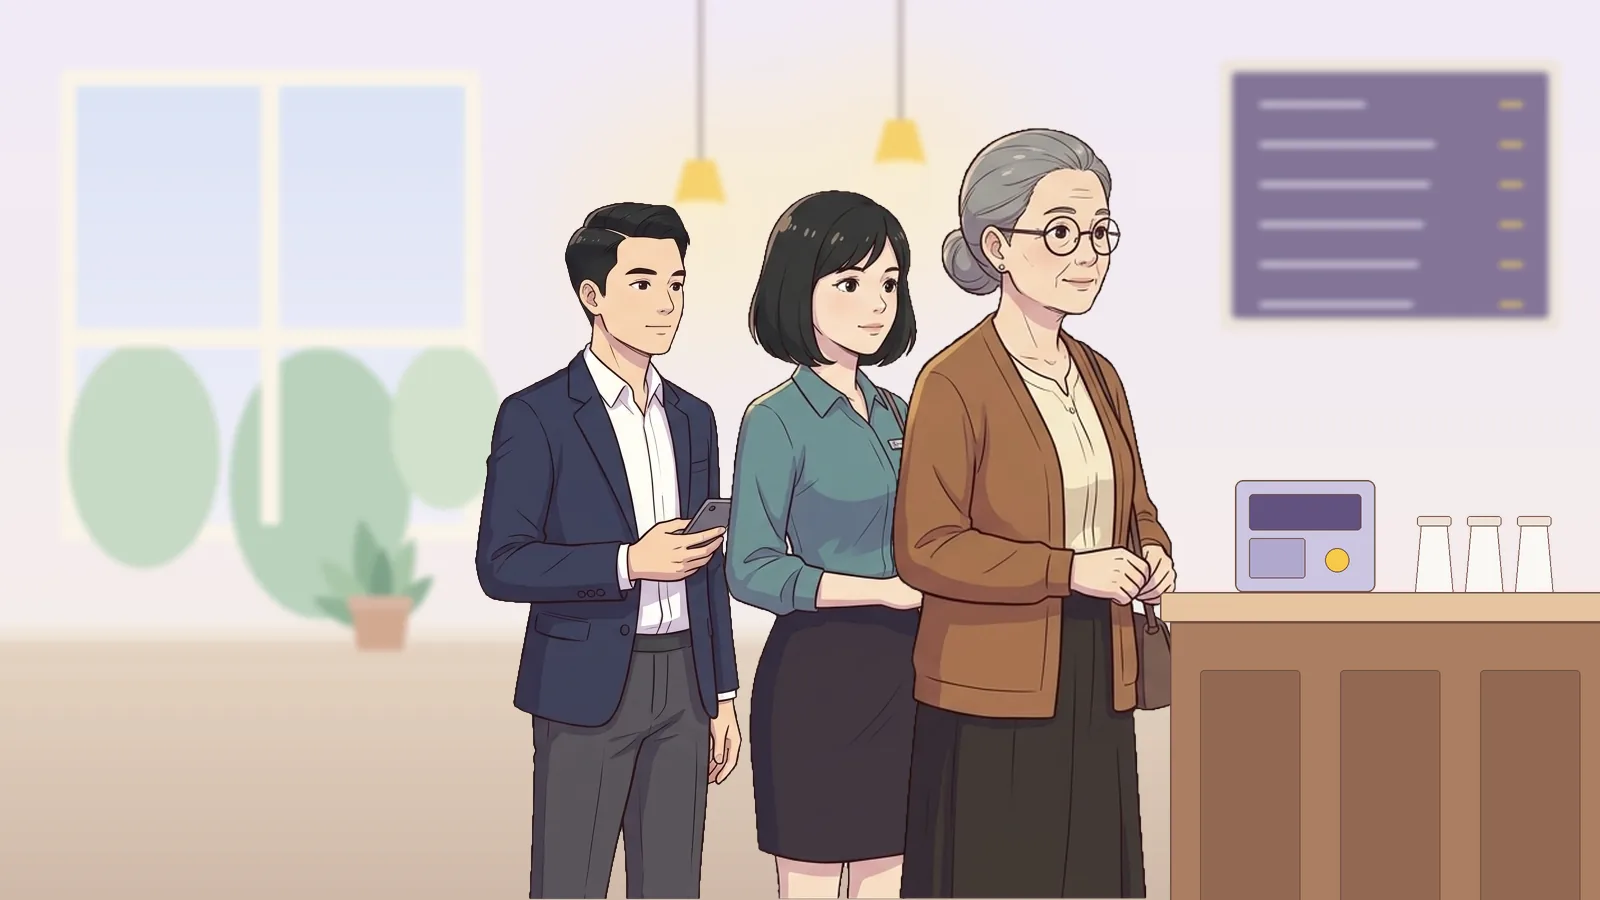
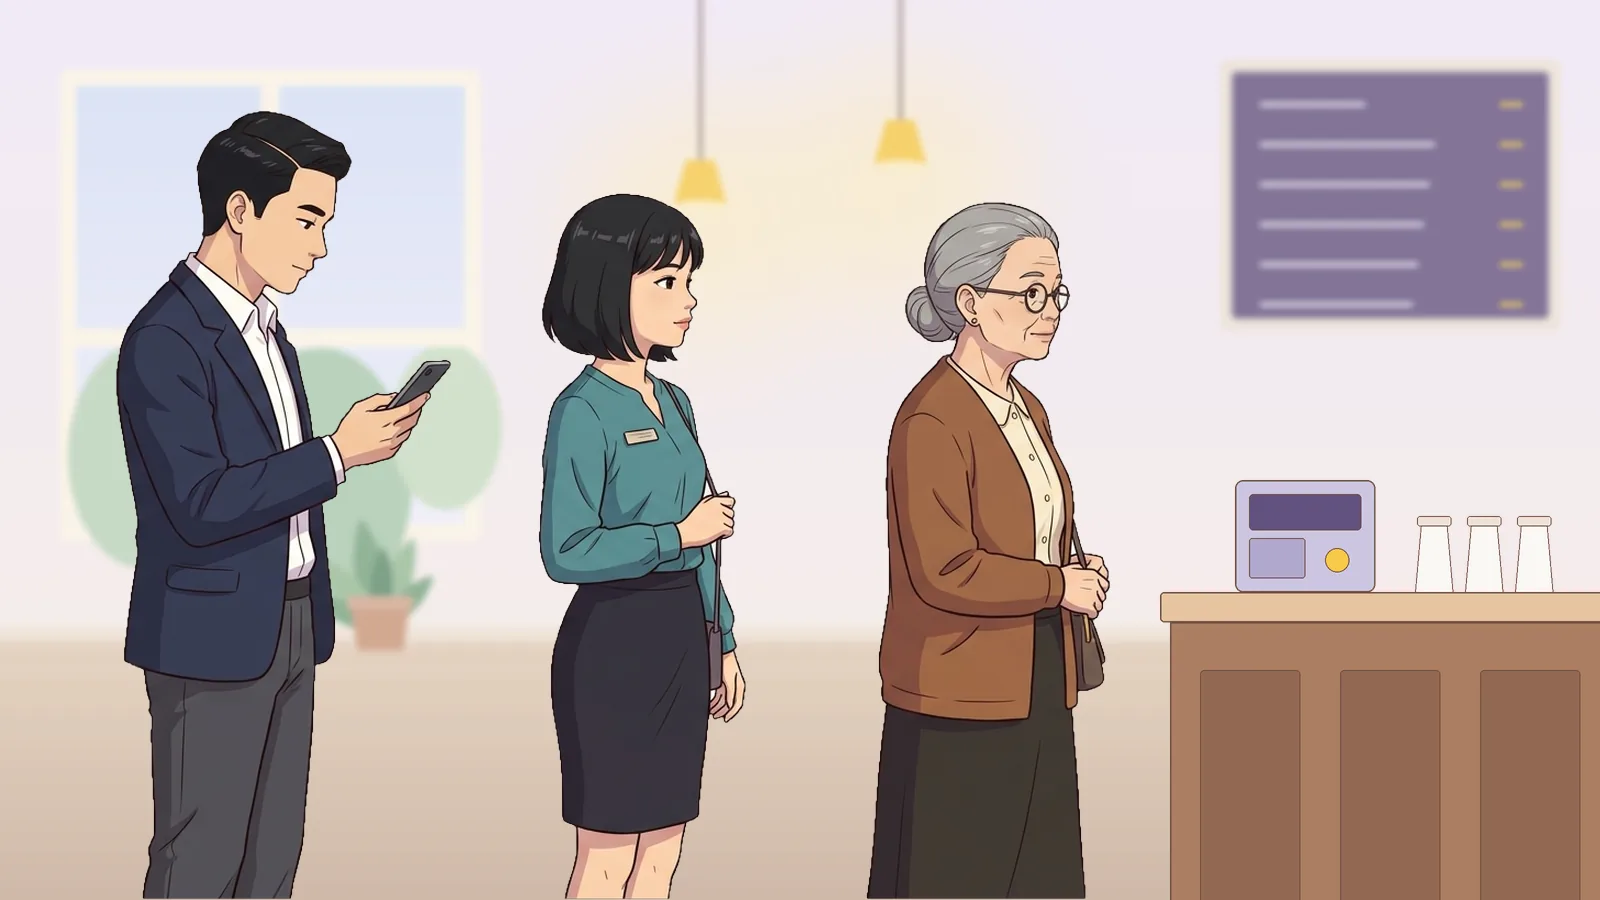
Unit 2: trio-line dung anh moi (3 nguoi nhin nghieng, xep hang thang huong quay); bo logic 3 hinh roi; kb/focus/alt_vi; VERSION 18

diff --git a/data/l02-anim.js b/data/l02-anim.js
@@ -17,11 +17,11 @@ window.BS_ANIMS.l02 = {
       pieces: [["They", ""], [" are", "be"], [" sitt", ""], ["ing", "ing"], [" across from each other.", ""]],
       note_vi: "sit → sitting: gấp đôi t rồi thêm ing; across from each other = đối diện nhau",
       kb: { from: [0.5, 0.5, 1.0], to: [0.5, 0.48, 1.25] }, focus: { x: 0.48, y: 0.6, r: 0.13, at: 2.5, label_vi: "đối diện nhau" } },
-    { id: "line", img: "trio-line", dur: 9, alt_vi: "Trong quán cà phê, ba người xếp hàng nối đuôi nhau, người này đứng sau người kia, hướng về quầy gọi đồ bên phải: bà tóc búi đeo kính đứng đầu hàng, sát quầy, rồi đến cô gái, và người đàn ông cầm điện thoại đứng cuối.",
+    { id: "line", img: "trio-line", dur: 9, alt_vi: "Trong quán cà phê, ba người đứng thành một hàng thẳng, cùng quay mặt về bên phải, hướng về quầy gọi đồ có máy tính tiền và mấy cốc mang đi: bà tóc búi đeo kính ở đầu hàng, sát quầy, cô gái đứng giữa, người đàn ông ở cuối hàng đang cúi nhìn điện thoại.",
       en: "Some people are waiting in line.", vi: "Vài người đang xếp hàng chờ.",
       pieces: [["Some people", ""], [" are", "be"], [" wait", ""], ["ing", "ing"], [" in line.", ""]],
       note_vi: "Some people + are; wait → waiting: thêm ing (đang chờ); in line = xếp hàng",
-      kb: { from: [0.4, 0.5, 1.0], to: [0.52, 0.5, 1.1] }, focus: { x: 0.6, y: 0.5, r: 0.25, at: 2.5, label_vi: "xếp hàng" } },
+      kb: { from: [0.4, 0.5, 1.0], to: [0.49, 0.5, 1.2] }, focus: { x: 0.7, y: 0.56, r: 0.17, at: 2.5, label_vi: "xếp hàng" } },
     { id: "serve", img: "nam-serve", dur: 9, alt_vi: "Người pha chế mặc tạp dề vàng đứng sau quầy, đưa một cốc mang đi cho cô gái; một người đàn ông mặc vest đứng cạnh cô.",
       en: "One of the men is handing a cup to the woman.", vi: "Một trong hai người đàn ông đang đưa cho người phụ nữ một cái cốc.",
       pieces: [["One of the men", ""], [" is", "be"], [" hand", ""], ["ing", "ing"], [" a cup to the woman.", ""]],

diff --git a/sw.js b/sw.js
@@ -3,10 +3,10 @@
  * Không gửi dữ liệu đi đâu, không đụng request khác nguồn, không đụng localStorage.
  * Mỗi lần deploy có file precache đổi: sửa VERSION rồi chạy `node tools/check-sw.mjs --write`.
  */
-// content-hash: 17@f473f1011288138c
+// content-hash: 18@27faaebe12b107c4
 "use strict";
 
-var VERSION = "17";
+var VERSION = "18";
 var PREFIX = "tb-";
 var CACHE = PREFIX + VERSION;
 var NAV_TIMEOUT = 3000;

diff --git a/tools/compose-scenes.py b/tools/compose-scenes.py
@@ -1,7 +1,7 @@
 #!/usr/bin/env python3
 """Compose the Unit 1 and Unit 2 scene images: people cut-outs + flat backgrounds/props drawn here.
 
-Pillow only (no rembg; trio-line expects the pre-split figures trio-line-1..3.png next to the cut-out). People are original characters made by the site owner;
+Pillow only (no rembg). People are original characters made by the site owner;
 everything else (backgrounds, counters, desk, laptop, flower shelf) is drawn
 procedurally by this script (2x supersampled, then downscaled).
 
@@ -696,22 +696,16 @@ def outro_bg():
 
 
 # scene -> (background fn, person scale, ox); the cut-out is anchored to the bottom edge of the canvas.
-# trio-line is composed from three separate figures instead (see make_scene_l02).
 L02 = {
     "duo-shake": (lobby_bg, SC, -6.0),
     "duo-meeting": (corner_bg, SC, -6.0),
-    "trio-line": (queue_bg, 1.2, -110.0),
+    "trio-line": (queue_bg, 1.1, -150.0),
     "nam-serve": (serve_bg, SC, -6.0),
     "duo-flowers": (shop_bg, SC, -6.0),
     "duo-walk": (street_bg, 1.1, 44.0),
     "group-outro": (outro_bg, SC, 20.0),
 }
 SCENES_L02 = list(L02)
-# trio-line queue: (layer file suffix, scale, ox), back to front. Each person is a little smaller than the one
-# in front, partly overlapped by them; the front person stands at the counter on the right.
-QUEUE = ((1, 1.0, 160.0), (2, 1.12, 46.0), (3, 1.28, -200.0))
-
-
 def queue_counter(fg):
     """Foreground counter with till and cup stack on the side the queue faces (canvas px)."""
     top = 600
@@ -739,16 +733,8 @@ def make_scene_l02(name, cut_dir):
     bg = bgf()
     mid, fg = Cv(), Cv()
     if name == "trio-line":
-        out = bg.convert("RGBA")
-        for idx, qs, qox in QUEUE:
-            p = Image.open(os.path.join(cut_dir, "trio-line-%d.png" % idx)).convert("RGBA")
-            p = p.resize((int(round(SW * qs)), int(round(SH * qs))), Image.LANCZOS)
-            lay = Image.new("RGBA", (W, H), (0, 0, 0, 0))
-            lay.paste(p, (int(round(qox)), int(round(H - SH * qs))), p)
-            out = Image.alpha_composite(out, lay)
-        queue_counter(fg)
-        return Image.alpha_composite(out, fg.out()).convert("RGB")
-    if name == "nam-serve":
+        queue_counter(fg)                          # foreground counter on the side the queue faces
+    elif name == "nam-serve":
         # t() maps cut-out pixel space (1376x768) to the canvas, so these numbers are cut-out pixels
         xe = 700                                   # counter ends between Nam's cup hand and Mai
         mid.poly([t(-200, 560), t(xe, 560), t(xe, 618), t(-200, 618)], fill=WOOD_T + (255,), ol=OL, w=1.6)
